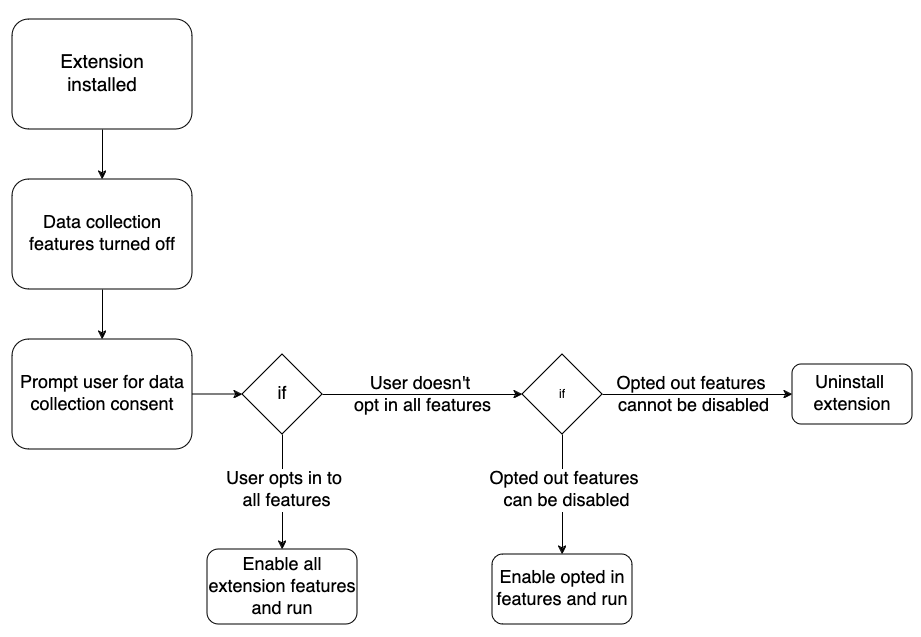
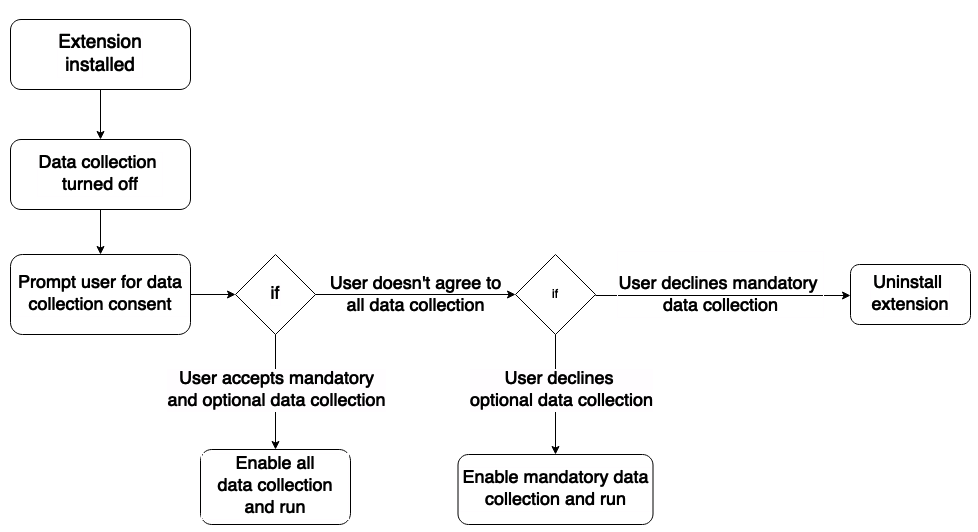
Explicitly call out data collection in consent flowchart

diff --git a/src/content/documentation/develop/best-practices-for-collecting-user-data-consents.md b/src/content/documentation/develop/best-practices-for-collecting-user-data-consents.md
@@ -153,9 +153,9 @@ In this example:
 3. The option for collecting personally identifying information must default to disabled so that the user has to actively opt-in.
 4. The options for technical data may default to enabled, so that the user may choose to opt-out.
 5. If the user:
-    - opts IN to all features &rarr; continue with all extension features enabled.
-    - opts OUT of any feature that cannot be disabled &rarr; uninstall the extension with [`management.uninstallSelf()`](https://developer.mozilla.org/docs/Mozilla/Add-ons/WebExtensions/API/management/uninstallSelf).
-    - opts OUT only from features that can be disabled &rarr; disable those features and continue running the extension.
+    - accepts mandatory and optional data collection &rarr; continue with data collection enabled enabled.
+    - declines mandatory data collection &rarr; uninstall the extension with [`management.uninstallSelf()`](https://developer.mozilla.org/docs/Mozilla/Add-ons/WebExtensions/API/management/uninstallSelf).
+    - declines optional data collection &rarr; disable optional data collection and continue running the extension.
 
 {% endcapture %}
 {% include modules/one-column.liquid,
